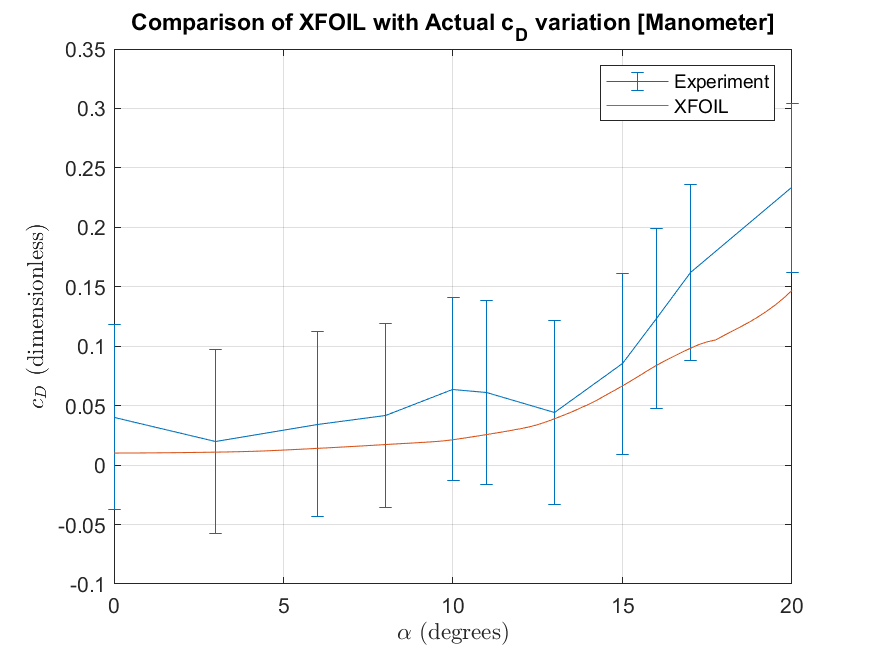
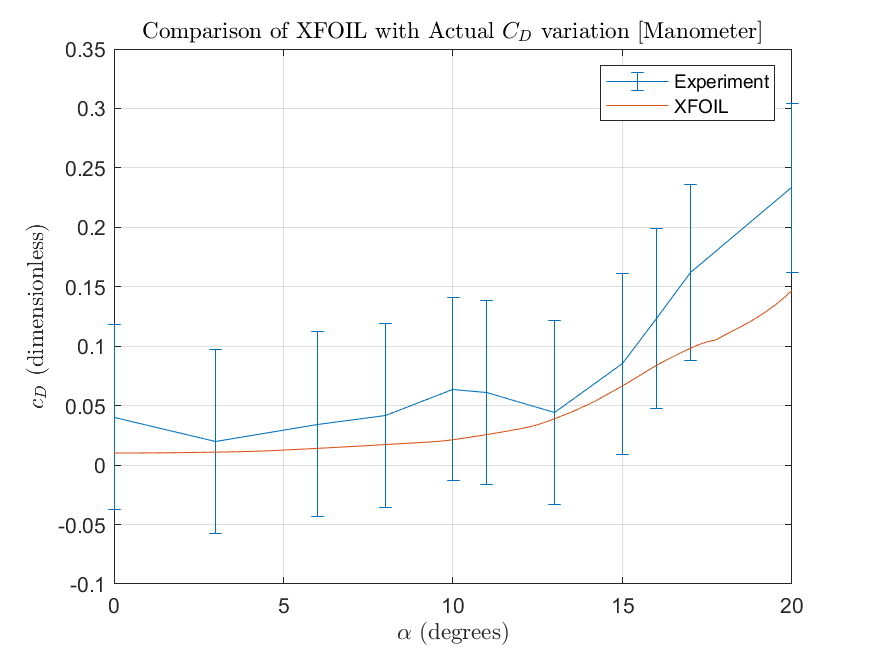
Update figures for wake

Changed region(s): [[0.1543, 0.0, 0.8949, 0.061]]

diff --git a/Code/wake_analysis/wake_analysis_scanivalve.m b/Code/wake_analysis/wake_analysis_scanivalve.m
@@ -19,7 +19,7 @@ freestream = freestream(1, :);
 figure
 hold on
 
-title("Wake Velocity Profile for varying AoA [Scanivalve]")
+title("Wake Velocity Profile for varying AoA [Scanivalve]", "interpreter", "latex")
 xlabel("Velocity Deficit (m/s)", "interpreter", "latex")
 ylabel("Vertical Position (m)", "interpreter", "latex")
 
@@ -65,7 +65,7 @@ hold on
 plot(XFOIL_data(:, 1), XFOIL_data(:,3), "DisplayName", "XFOIL")
 xlabel("$\alpha$ (degrees)", "interpreter", "latex")
 ylabel("$c_D$ (dimensionless)", "interpreter", "latex")
-title("Comparison of XFOIL with Actual c_D variation [Scanivalve]")
+title("Comparison of XFOIL with Actual $C_D$ variation [Scanivalve]", "interpreter", "latex")
 legend
 grid
 saveas(gcf,'../../source_latex/figures/scanivalve_cd.png')
@@ -73,8 +73,8 @@ saveas(gcf,'../../source_latex/figures/scanivalve_cd.png')
 figure
 errorbar(alphas, drag_force, d_drag_force)
 xlabel("$\alpha$ (degrees)", "interpreter", "latex")
-ylabel("Drag Force per Unit Span (N/m) [Scanivalve]")
-title("Drag Force")
+ylabel("Drag Force per Unit Span (N/m)")
+title("Drag Force [Scanivalve]", "interpreter", "latex")
 grid
 saveas(gcf,'../../source_latex/figures/scanivalve_drag_force.png')
 

diff --git a/Code/wake_analysis/wake_analysis_manometer.m b/Code/wake_analysis/wake_analysis_manometer.m
@@ -17,7 +17,7 @@ freestream = freestream(1, :);
 figure
 hold on
 
-title("Wake Velocity Profile for varying AoA [Manometer]")
+title("Wake Velocity Profile for varying AoA [Manometer]", "interpreter", "latex")
 xlabel("Velocity Deficit (m/s)", "interpreter", "latex")
 ylabel("Vertical Position (m)", "interpreter", "latex")
 
@@ -67,7 +67,7 @@ hold on
 plot(XFOIL_data(:, 1), XFOIL_data(:,3), "DisplayName", "XFOIL")
 xlabel("$\alpha$ (degrees)", "interpreter", "latex")
 ylabel("$c_D$ (dimensionless)", "interpreter", "latex")
-title("Comparison of XFOIL with Actual c_D variation [Manometer]")
+title("Comparison of XFOIL with Actual $C_D$ variation [Manometer]", "interpreter", "latex")
 legend
 grid
 saveas(gcf,'../../source_latex/figures/manometer_cd.png')
@@ -75,8 +75,8 @@ saveas(gcf,'../../source_latex/figures/manometer_cd.png')
 figure
 errorbar(alphas, drag_force, d_drag_force)
 xlabel("$\alpha$ (degrees)", "interpreter", "latex")
-ylabel("Drag Force per Unit Span (N/m) [Manometer]")
-title("Drag")
+ylabel("Drag Force per Unit Span (N/m)")
+title("Drag [Manometer]", "interpreter", "latex")
 grid
 saveas(gcf,'../../source_latex/figures/manometer_drag_force.png')
 
